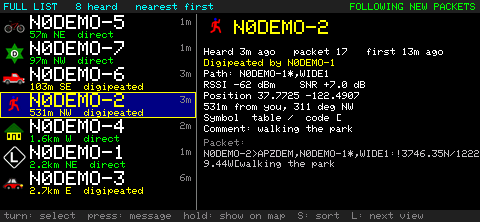
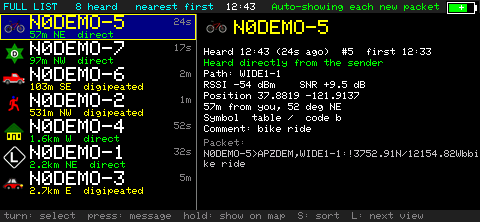
Real times, power saving, labelled menu, cleanup and new Mount Diablo screenshots
- Messages and heard stations carry real clock times (RTC-backed); last beacon time on the map; clock times in message threads and station detail.
- Power saving: idle between loop passes, 80 MHz when untouched, no drawing while the screen is off; battery current (screen on and off) in the main menu header.
- Main menu heading on a coloured band; full list header shows the time and says in words whether it follows new packets or is paused.
- Cleanup: README (regulatory section, PlatformIO, defaults, serial test commands), docs/messaging.md, tools no longer tied to one computer, SSIDs with a leading zero refused, unused parameter removed, messaging-ideas.pdf removed.
- New demo screenshots at the summit of Mount Diablo.

diff --git a/src/app/app.cpp b/src/app/app.cpp
@@ -36,7 +36,7 @@ static Keys keys;
 static lgfx::LGFX_Sprite fb(&tft);   // off-screen frame buffer (PSRAM) so redraws never show half-drawn
 static bool fbOk = false;
 
-// ---- LoRa APRS receive (433.775 MHz, SF12, BW125, CR4/5, private sync 0x12). Receive only: this build never transmits. ----
+// ---- LoRa APRS receive (433.775 MHz, SF12, BW125, CR4/5, private sync 0x12). It also transmits beacons and messages once a call sign is saved. ----
 static SX1262 *radio = nullptr;
 static volatile bool rxFlag = false;
 static void IRAM_ATTR onRx() { rxFlag = true; }
@@ -53,9 +53,11 @@ static BeaconScheduler beacon;
 static unsigned long txCount = 0;
 
 // ---- Stations heard (positions only for now) ----
-struct Station { char call[10]; double lat, lon; char table, sym; uint32_t heard, first; float rssi, snr; bool used;
+struct Station { char call[10]; double lat, lon; char table, sym; uint32_t heard, first, heardUtc, firstUtc; float rssi, snr; bool used;      // heard/first: millis(); heardUtc/firstUtc: real time (0 = clock not set)
+
                  uint16_t count; char raw[121], path[40], via[10], comment[44]; };   // raw = the last packet as text; via = the digipeater that repeated it ("" = heard directly)
 static Station stations[48];
+static uint32_t utcNow();                           // the clock, defined further down
 static char lastHeardCall[10] = "";                 // the station heard most recently, and when (the full list lights it up)
 static uint32_t lastHeardAt = 0, lastKnobAt = 0;      // lastKnobAt: when the knob last moved in the full list (it stops following new packets for a while)
 static int stationCount() { int n = 0; for (auto &s : stations) if (s.used) n++; return n; }
@@ -68,7 +70,9 @@ static void stationUpdate(const AprsPos &p, float rssi, float snr, const char *r
   }
   if (!slot) slot = oldest;
   bool same = slot->used && strcmp(slot->call, p.call) == 0;
-  if (!same) { slot->count = 0; slot->first = millis(); }
+  uint32_t u = utcNow();
+  if (!same) { slot->count = 0; slot->first = millis(); slot->firstUtc = u; }
+  slot->heardUtc = u;
   if (slot->count < 65535) slot->count++;
   strncpy(slot->call, p.call, 9); slot->call[9] = 0;
   slot->lat = p.lat; slot->lon = p.lon; slot->table = p.table; slot->sym = p.sym;
@@ -105,6 +109,7 @@ static void loadDemo(double lat, double lon) {
     strncpy(st.call, d.call, 9); st.table = d.table; st.sym = d.sym;
     st.lat = lat + d.dy / 111320.0; st.lon = lon + d.dx / (111320.0 * cos(lat * M_PI / 180.0));
     st.rssi = d.rssi; st.snr = (float)d.snr; st.count = d.count; st.heard = millis() - (uint32_t)d.ageS * 1000UL; st.first = st.heard - 600000UL;
+    { uint32_t u = utcNow(); st.heardUtc = u ? u - (uint32_t)d.ageS : 0; st.firstUtc = u ? st.heardUtc - 600 : 0; }
     strncpy(st.path, d.path, sizeof st.path - 1); strncpy(st.via, d.via, sizeof st.via - 1); strncpy(st.comment, d.comment, sizeof st.comment - 1);
     char pos[24]; aprsFormatPosition(pos, sizeof pos, st.lat, st.lon, d.table, d.sym);
     snprintf(st.raw, sizeof st.raw, "%s>APZDEM,%s:!%s%s", d.call, d.path, pos, d.comment);
@@ -141,6 +146,7 @@ static void rtcWrite(uint32_t utc) {
   Wire.write(clockToBcd(t.sec)); Wire.write(clockToBcd(t.min)); Wire.write(clockToBcd(t.hour)); Wire.write(clockToBcd(t.day));
   Wire.write((uint8_t)t.wday); Wire.write(clockToBcd(t.month)); Wire.write(clockToBcd(t.year % 100)); Wire.endTransmission();
 }
+static uint32_t lastBeaconUtc = 0;                         // when we last transmitted a beacon (0 = none since power-on, or clock not set)
 static uint32_t utcNow() { return clkEpoch ? clkEpoch + (millis() - clkAt) / 1000 : 0; }
 static void clockTick() {                                // once a second: take new GPS time, save it to the RTC now and then, read the battery
   if (gps.fix.epoch && gps.fix.epoch != clkGpsSeen && gps.fix.epoch > 1700000000UL) {
@@ -401,9 +407,9 @@ static void drawFullList(lgfx::LovyanGFX &D, int W, int H) {
   D.fillRect(0, 0, W, 13, C_BAR); D.setTextSize(1); D.setTextColor(TFT_CYAN); D.setCursor(4, 3);
   D.printf("FULL LIST   %d heard   %s first", nOrd, (sortByDistance && gps.fix.valid) ? "nearest" : "most recent");
   bool follow = lastKnobAt == 0 || millis() - lastKnobAt > FOLLOW_PAUSE_MS;
-  const char *ft = follow ? "FOLLOWING NEW PACKETS" : "HOLDING (knob in use)";
+  const char *ft = follow ? "Auto-showing each new packet" : "Paused: you turned the knob";   // the list jumps to each newly heard station until the knob is used, then waits 20 s
   D.setTextColor(follow ? TFT_GREEN : TFT_YELLOW); D.setCursor(W - 6 * (int)strlen(ft) - 4 - (S.batIcon ? 36 : 0), 3); D.print(ft);
-  drawClockBat(D, 222, 3, C_BAR, true); drawBatIcon(D, W);
+  drawClockBat(D, 226, 3, C_BAR, false); drawBatIcon(D, W);        // time only here: the date would run into the status text
   D.drawFastVLine(LW, top, H - top - 12, TFT_DARKGREY);
   int sel = selIndex(), first = constrain(sel - rows / 2, 0, std::max(0, nOrd - rows));
   if (nOrd == 0) { D.setTextColor(C_GRAY); D.setCursor(10, 60); D.print("No stations heard yet."); }
@@ -431,7 +437,8 @@ static void drawFullList(lgfx::LovyanGFX &D, int W, int H) {
     if (!strcmp(st.call, lastHeardCall) && millis() - lastHeardAt < FRESH_MS) { D.setTextSize(1); D.setTextColor(TFT_GREEN); D.setCursor(X + 30 + 12 * (int)strlen(st.call) + 8, y + 9); D.print("JUST HEARD"); D.setTextSize(2); }
     y += 30; D.setTextSize(1);
     char a1[8], a2[8]; geoFmtAge(a1, sizeof a1, (millis() - st.heard) / 1000); geoFmtAge(a2, sizeof a2, (millis() - st.first) / 1000);
-    D.setTextColor(TFT_WHITE); D.setCursor(X, y); D.printf("Heard %s ago   packet %u   first %s ago", a1, (unsigned)st.count, a2); y += 11;
+    D.setTextColor(TFT_WHITE); D.setCursor(X, y); if (st.heardUtc) { char h[24], f[24]; clockStamp(h, sizeof h, st.heardUtc, utcNow(), S.utcOffset, S.usDst); clockStamp(f, sizeof f, st.firstUtc, utcNow(), S.utcOffset, S.usDst); D.printf("Heard %s (%s ago)  #%u  first %s", h, a1, (unsigned)st.count, f); }
+    else D.printf("Heard %s ago   packet %u   first %s ago", a1, (unsigned)st.count, a2); y += 11;
     D.setCursor(X, y);
     if (st.via[0]) { D.setTextColor(TFT_YELLOW); D.printf("Digipeated by %s", st.via); } else { D.setTextColor(TFT_GREEN); D.print("Heard directly from the sender"); }
     y += 11; D.setTextColor(TFT_WHITE); D.setCursor(X, y); D.printf("Path: %s", st.path[0] ? st.path : "(none)"); y += 11;
@@ -452,15 +459,20 @@ static void drawFullList(lgfx::LovyanGFX &D, int W, int H) {
 
 // ---- Main menu (Backspace on the map): knob turn = move, press = choose, long press or Backspace = close ----
 enum MenuAct { MA_NONE, MA_MESSAGES, MA_SETUP, MA_BEACON, MA_AUTO, MA_POWEROFF_ASK, MA_POWEROFF_YES, MA_NO, MA_CLOSE };
-struct MainMenu { bool on = false; int sel = 0, n = 0; char label[7][32]; MenuAct act[7]; char title[34] = "Menu"; };
+struct MainMenu { bool on = false; int sel = 0, n = 0; char label[7][32]; MenuAct act[7]; char title[34] = "Menu"; char info1[56] = "", info2[56] = "", info3[56] = ""; };
 static MainMenu mainMenu;
 static void mmAdd(const char *t, MenuAct a) { if (mainMenu.n < 7) { strncpy(mainMenu.label[mainMenu.n], t, 31); mainMenu.label[mainMenu.n][31] = 0; mainMenu.act[mainMenu.n++] = a; } }
 static void drawMainMenu(lgfx::LovyanGFX &D) {
-  int h = 26 + mainMenu.n * 18, w = 260, x = (480 - w) / 2, y = (222 - h) / 2;
+  bool info = mainMenu.info1[0] != 0; int top = info ? (mainMenu.info3[0] ? 58 : 48) : 22;
+  int h = top + 4 + mainMenu.n * 18, w = info ? 340 : 260, x = (480 - w) / 2, y = (222 - h) / 2;
   D.fillRect(x - 2, y - 2, w + 4, h + 4, TFT_WHITE); D.fillRect(x, y, w, h, TFT_BLACK);
-  D.setTextSize(1); D.setTextColor(TFT_CYAN); D.setCursor(x + 8, y + 7); D.print(mainMenu.title);
+  D.fillRect(x, y, w, top - 3, 0x0014);                          // the heading sits on a dark blue band, with a line under it before the choices
+  D.fillRect(x, y + top - 3, w, 2, TFT_CYAN);
+  D.setTextSize(1); D.setTextColor(TFT_CYAN); D.setCursor(x + 8, y + 6); D.print(mainMenu.title);
+  if (info) { D.setTextColor(TFT_WHITE); D.setCursor(x + 8, y + 19); D.print(mainMenu.info1); D.setCursor(x + 8, y + 31); D.print(mainMenu.info2);
+                if (mainMenu.info3[0]) { D.setTextColor(0xC618); D.setCursor(x + 8, y + 43); D.print(mainMenu.info3); } }
   for (int i = 0; i < mainMenu.n; i++) {
-    int yy = y + 22 + i * 18; bool sel = i == mainMenu.sel;
+    int yy = y + top + i * 18; bool sel = i == mainMenu.sel;
     D.fillRect(x + 2, yy, w - 4, 16, sel ? TFT_YELLOW : TFT_BLACK);
     D.setTextColor(sel ? TFT_BLACK : TFT_WHITE); D.setCursor(x + 10, yy + 4); D.print(mainMenu.label[i]);
   }
@@ -574,6 +586,7 @@ static void render() {
   }
   D.setCursor(x0 + 2, H - 10);
   D.printf(" %.4f %.4f ", clat, clon);
+  if (lastBeaconUtc) { LocalTime bt = clockLocal(lastBeaconUtc, S.utcOffset, S.usDst); D.printf("TX %02d:%02d ", bt.hour, bt.min); }
   drawClockBat(D, W - 3, H - 10, TFT_BLACK, true, true);
   drawBatIcon(D, W);
   if (mainMenu.on) drawMainMenu(D);
@@ -669,15 +682,22 @@ static PagerSettings loadSettings() {
 // When the backlight was fully off, that first touch only wakes the screen (a key pressed in a pocket does nothing); when merely dimmed it also acts.
 static int screenState = 0;                               // 0 full, 1 dim, 2 off
 static uint32_t lastActivity = 0;
-static bool screenTouch() {                                // returns true when the screen was off: the caller then ignores that key press
+static long asleepSum = 0; static int asleepN = 0, asleepAvg = 0; static bool asleepHave = false;   // battery current sampled while the backlight was off
+static bool screenTouch() {
+  if (screenState == 2 && asleepN >= 2) { asleepAvg = (int)(asleepSum / asleepN); asleepHave = true; }                                // returns true when the screen was off: the caller then ignores that key press
   lastActivity = millis(); bool wasOff = screenState == 2;
   if (screenState) { screenState = 0; tft.setBrightness(S.brightness); dirty = true; }
   return wasOff;
 }
 static void screenTick() {
+  static bool slow = false;                                  // processor at 80 MHz when nothing was touched for 5 s, 240 MHz while in use (radio, GPS and beacons do not need more)
+  bool wantSlow = millis() - lastActivity > 5000;
+  if (wantSlow != slow) { slow = wantSlow; setCpuFrequencyMhz(slow ? 80 : 240); }
   if (!S.dimSec && !S.offSec) { if (screenState) { screenState = 0; tft.setBrightness(S.brightness); } return; }
   uint32_t idle = (millis() - lastActivity) / 1000;
   int want = (S.offSec && idle >= (uint32_t)S.offSec) ? 2 : ((S.dimSec && idle >= (uint32_t)S.dimSec) ? 1 : 0);
+  if (want == 2 && screenState != 2) { asleepSum = 0; asleepN = 0; }
+  if (want == 2) { static uint32_t sampledAt = 0; if (millis() - sampledAt > 2000) { sampledAt = millis(); uint8_t b[2]; if (i2cRead(ADDR_BQ27220, 0x0C, b, 2) == 0) { if (sampledAt - lastActivity > 6000) { asleepSum += (int16_t)(b[0] | (b[1] << 8)); asleepN++; } } } }
   if (want != screenState) { screenState = want; tft.setBrightness(want == 2 ? 0 : (want == 1 ? std::min(S.brightness, 20) : S.brightness)); }
 }
 static uint8_t keyFiltered() { uint8_t e = keys.poll(); if (e && screenTouch()) return 0; return e; }
@@ -830,7 +850,7 @@ static bool sendBeacon() {
   int r = txFrame(f, len);
   if (r == 1) { say("Channel busy: beacon skipped"); return false; }
   if (r != 0) { say("TX failed"); haptic.play(H_ERROR); return false; }
-  txCount++; beacon.sent(millis(), gps.fix.lat, gps.fix.lon);
+  txCount++; beacon.sent(millis(), gps.fix.lat, gps.fix.lon); lastBeaconUtc = utcNow();
   haptic.play(H_MESSAGE); say("Beacon sent");
   return true;
 }
@@ -864,6 +884,13 @@ static void powerOff() {
 }
 static void openMainMenu() {
   mainMenu.n = 0; mainMenu.sel = 0; mainMenu.on = true; strcpy(mainMenu.title, "Menu");
+  mainMenu.info1[0] = mainMenu.info2[0] = mainMenu.info3[0] = 0;                // battery current from the fuel gauge, with words: negative = the battery is giving power
+  { uint8_t b[2]; if (i2cRead(ADDR_BQ27220, 0x0C, b, 2) == 0) { int ma = (int16_t)(b[0] | (b[1] << 8));
+      if (ma < 0) snprintf(mainMenu.info1, sizeof mainMenu.info1, "Battery, screen on:   using %d mA", -ma); else snprintf(mainMenu.info1, sizeof mainMenu.info1, "Battery, screen on:   charging %d mA", ma);
+      if (!asleepHave) { strcpy(mainMenu.info2, "Battery, screen off:  no reading yet"); strcpy(mainMenu.info3, "Let the screen go off for a minute, then wake it."); }
+      else if (asleepAvg < 0) snprintf(mainMenu.info2, sizeof mainMenu.info2, "Battery, screen off:  using %d mA (average)", -asleepAvg);
+      else snprintf(mainMenu.info2, sizeof mainMenu.info2, "Battery, screen off:  USB was plugged in");
+    } else { strcpy(mainMenu.info1, "Battery current: no reading from the gauge"); } }
   mmAdd("Messages", MA_MESSAGES); mmAdd("Phone setup", MA_SETUP); mmAdd("Beacon now", MA_BEACON);
   mmAdd(autoBeacon ? "Auto-beacon is ON: turn off" : "Auto-beacon is OFF: turn on", MA_AUTO);
   mmAdd("Power off", MA_POWEROFF_ASK); mmAdd("Close menu", MA_CLOSE);
@@ -891,6 +918,7 @@ static void centerOnGps() {
 
 void loop() {
   if (root == "") { delay(1000); return; }
+  delay(screenState ? 10 : 2);                  // let the processor idle between passes (the radio, GPS and knob are interrupt or buffer driven)
 
   // GPS characters
   while (Serial1.available()) {
@@ -904,7 +932,6 @@ void loop() {
     }
   }
 
-  // 'S' from the Mac = send a screenshot
   // Test hooks from the Mac (used to take screenshots): "S" screenshot, "M" open Messages, "G<lat>,<lon>,<zoom>\n" put the map there,
   // "V<0-3>\n" choose the L view, "C<call>\n" select a heard station, "X\n" back to the map.
   {
@@ -928,6 +955,8 @@ void loop() {
         continue;
       }
       if (c == 'S') sendScreenshot();
+      else if (c == 'B') { uint8_t b[2]; auto w = [&](uint8_t r, const char *n, bool sgn) { if (i2cRead(ADDR_BQ27220, r, b, 2) == 0) { int v = b[0] | (b[1] << 8); Serial.printf("gauge %s = %d\n", n, sgn ? (int)(int16_t)v : v); } else Serial.printf("gauge %s = no answer\n", n); };
+                           w(0x08, "voltage mV", false); w(0x2C, "charge %", false); w(0x0C, "current 0x0C mA", true); w(0x14, "avg current 0x14 mA", true); w(0x0A, "flags", false); w(0x12, "full capacity mAh", false); w(0x10, "remaining mAh", false); w(0x16, "time to empty min", false); }
       else if (c == 'M' && !ui.active() && !setupMode) { ui.open(); Serial.println("ui: opened by serial"); }
       else if (c == 'G' || c == 'V' || c == 'C' || c == 'X' || c == 'D' || c == 'R') { cmd[0] = (char)c; cmdN = 1; }
     }
@@ -1059,7 +1088,7 @@ void loop() {
   // the messages screens replace the map while they are open
   if (ui.active()) {
     static uint32_t uiDrawn = 0;
-    if (ui.dirty || millis() - uiDrawn > 1000) {
+    if (screenState != 2 && (ui.dirty || millis() - uiDrawn > 1000)) {
       uiDrawn = millis(); ui.draw(fbOk ? (lgfx::LovyanGFX &)fb : (lgfx::LovyanGFX &)tft); if (fbOk) fb.pushSprite(0, 0);
     }
     return;
@@ -1071,6 +1100,6 @@ void loop() {
   static uint32_t lastFade = 0;
   if (stView == 3 && millis() - lastHeardAt < FRESH_MS + 1500 && millis() - lastFade > 1000) { lastFade = millis(); dirty = true; }     // let the green highlight fade out
   // redraw at most every 300 ms (stations and GPS arrive in bursts)
-  if (dirty && millis() - lastDraw > 300) { dirty = false; lastDraw = millis(); render(); }
+  if (dirty && screenState != 2 && millis() - lastDraw > 300) { dirty = false; lastDraw = millis(); render(); }
   else if (notice && millis() > noticeUntil && !dirty) { notice = nullptr; dirty = true; }
 }

diff --git a/src/msg_ui.h b/src/msg_ui.h
@@ -10,7 +10,7 @@ static const char *CANNED[] = {"OK", "QSL", "On my way", "Where are you?", "Runn
 static const int NCANNED = 6;
 static const uint16_t C_BG = TFT_BLACK, C_SEL = 0x0010, C_GRAY = 0x8410, C_BAR = 0x2104;
 
-static uint32_t epochNow() { return gps.fix.epoch; }
+static uint32_t epochNow() { return utcNow(); }          // the RTC-backed clock: right at power-on and with no GPS
 static const Station *stationFor(const char *call) {
   for (auto &st : stations) if (st.used && !strcasecmp(st.call, call)) return &st;
   return nullptr;
@@ -54,6 +54,10 @@ static void wrapInto(std::vector<std::string> &out, const std::string &t, size_t
     if (i + take < t.size()) { size_t sp = t.rfind(' ', i + take); if (sp != std::string::npos && sp > i) take = sp - i; }
     out.push_back(t.substr(i, take)); i += take; while (i < t.size() && t[i] == ' ') i++;
   }
+}
+static std::string stampText(uint32_t epoch) {            // "09:14  " (local time of the message), "" when its time is not known
+  if (!epoch) return "";
+  char b[24]; clockStamp(b, sizeof b, epoch, utcNow(), S.utcOffset, S.usDst); return std::string(b) + "  ";
 }
 static std::string ageText(uint32_t epoch) {
   uint32_t now = epochNow(); if (!epoch || !now || now < epoch) return "";
@@ -257,8 +261,8 @@ struct MsgUi {
       firstLine[i] = (int)ln.size();
       for (auto &s : w) ln.push_back({s, x.out ? (uint16_t)TFT_GREEN : (uint16_t)TFT_WHITE, x.out, (int)i, false, 18});
       std::string meta;
-      if (x.out) { meta = stateText(x, now); if (x.state == msg::S_QUEUED && heldBehind(th, i)) meta = "waiting for the earlier message"; }
-      else { std::string a = ageText(x.epoch), sig; if (x.rssi) { char b[40]; if (x.snr4) snprintf(b, sizeof b, "%d dBm  SNR %+.1f", x.rssi, x.snr4 / 4.0); else snprintf(b, sizeof b, "%d dBm", x.rssi); sig = b; } meta = a + (!a.empty() && !sig.empty() ? "  " : "") + sig; }
+      if (x.out) { meta = stampText(x.epoch) + stateText(x, now); if (x.state == msg::S_QUEUED && heldBehind(th, i)) meta = "waiting for the earlier message"; }
+      else { std::string a = stampText(x.epoch) + ageText(x.epoch), sig; if (x.rssi) { char b[40]; if (x.snr4) snprintf(b, sizeof b, "%d dBm  SNR %+.1f", x.rssi, x.snr4 / 4.0); else snprintf(b, sizeof b, "%d dBm", x.rssi); sig = b; } meta = a + (!a.empty() && !sig.empty() ? "  " : "") + sig; }
       ln.push_back({meta, x.out ? stateColor(x.state) : (uint16_t)0xC618, x.out, (int)i, true, 13});
       lastLine[i] = (int)ln.size() - 1;
     }

diff --git a/src/settings_core.h b/src/settings_core.h
@@ -41,7 +41,7 @@ inline std::string trim(const std::string &s) {
 inline std::string upper(std::string s) { for (auto &c : s) c = toupper((unsigned char)c); return s; }
 }  // namespace settings_detail
 
-// "K6ATV-6": 3-6 letters/digits with at least one of each, then an optional -0..15
+// "W1AW-7": 3-6 letters/digits with at least one of each, then an optional -0..15
 inline bool settingsValidCall(const std::string &c) {
   size_t dash = c.find('-'); std::string base = c.substr(0, dash);
   if (base.size() < 3 || base.size() > 6) return false;
@@ -49,7 +49,8 @@ inline bool settingsValidCall(const std::string &c) {
   for (char ch : base) { if (isalpha((unsigned char)ch) && isupper((unsigned char)ch)) l = true; else if (isdigit((unsigned char)ch)) d = true; else return false; }
   if (!l || !d) return false;
   if (dash == std::string::npos) return true;
-  int ssid; return settings_detail::toInt(c.substr(dash + 1), 0, 15, ssid) && c.size() - dash - 1 <= 2;
+  std::string sd = c.substr(dash + 1);
+  int ssid; return settings_detail::toInt(sd, 0, 15, ssid) && sd.size() <= 2 && !(sd.size() == 2 && sd[0] == '0');     // -0 to -15, no leading zero
 }
 // "WIDE1-1" or "WIDE1-1,WIDE2-1" or empty: up to 3 hops of A-Z, 0-9 and a dash
 inline bool settingsValidPath(const std::string &p) {
@@ -82,7 +83,7 @@ inline bool settingsParse(const SettingsGet &get, PagerSettings &out, std::strin
   PagerSettings n; std::string v;
   auto need = [&](const char *name) { if (!get(name, v)) { err = std::string("Missing field: ") + name; return false; } return true; };
   if (!need("call")) return false;
-  { std::string c = upper(trim(v)); if (!settingsValidCall(c)) { err = "Call sign: use letters and digits like K6ATV-6 (SSID 0-15)"; return false; } strcpy(n.call, c.c_str()); }
+  { std::string c = upper(trim(v)); if (!settingsValidCall(c)) { err = "Call sign: use letters and digits like W1AW-7 (SSID 0-15)"; return false; } strcpy(n.call, c.c_str()); }
   if (!need("path")) return false;
   { std::string p = upper(trim(v)); if (!settingsValidPath(p)) { err = "Path: up to 3 hops like WIDE1-1 or WIDE1-1,WIDE2-1"; return false; } strcpy(n.path, p.c_str()); }
   if (!need("table")) return false;

diff --git a/test/host/test_settings.cpp b/test/host/test_settings.cpp
@@ -23,7 +23,7 @@ int main() {
   bad("comment", "0123456789012345678901234567890123456789012345", "long comment refused");
   bad("txdbm", "23", "23 dBm refused"); bad("txdbm", "1", "1 dBm refused"); bad("txdbm", "abc", "non-number refused"); bad("txdbm", "20x", "trailing junk refused"); bad("txdbm", "", "empty number refused");
   bad("moving", "29", "moving too fast refused"); bad("moving", "3601", "moving too slow refused"); bad("stationary", "0", "0 min refused"); bad("stationary", "121", "121 min refused");
-  bad("movem", "19", "19 m refused"); bad("auto", "2", "auto 2 refused"); bad("bright", "9", "dark refused"); bad("bright", "256", "256 refused"); bad("tz", "15", "tz 15 refused"); bad("tz", "-13", "tz -13 refused"); bad("dst", "2", "dst 2 refused"); bad("baticon", "2", "baticon 2 refused"); bad("dim", "-1", "dim -1 refused"); bad("off", "3601", "off 3601 refused");
+  bad("movem", "19", "19 m refused"); bad("auto", "2", "auto 2 refused"); bad("bright", "9", "dark refused"); bad("bright", "256", "256 refused"); bad("tz", "15", "tz 15 refused"); { M m = good(); m["call"] = "W1AW-01"; std::string e; PagerSettings t; expect(!parse(m, t, e), "SSID with a leading zero refused"); } bad("tz", "-13", "tz -13 refused"); bad("dst", "2", "dst 2 refused"); bad("baticon", "2", "baticon 2 refused"); bad("dim", "-1", "dim -1 refused"); bad("off", "3601", "off 3601 refused");
   { M m = good(); m.erase("bright"); std::string e; PagerSettings t; expect(!parse(m, t, e) && e.find("bright") != std::string::npos, "missing field named in the error"); }
   { M m = good(); m["table"] = "L"; m["sym"] = "&"; PagerSettings t; std::string e; expect(parse(m, t, e) && t.table == 'L' && t.sym == '&', "overlay symbol L& accepted"); }
   { M m = good(); m["table"] = "\\"; m["sym"] = "&"; PagerSettings t; std::string e; expect(parse(m, t, e) && t.table == '\\', "alternate table accepted"); }

diff --git a/tools/screenshot.py b/tools/screenshot.py
@@ -2,8 +2,8 @@
 """Take a screenshot of the T-LoRa Pager running the application firmware, over USB.
 
 Usage: tools/screenshot.py [out.png] [--port /dev/cu.usbmodemXXXX] [--send 'V1\\nG37.77,-122.49,12\\n'] [--wait 1.5]
-Needs pyserial and Pillow. On this Mac: PYTHONPATH=$HOME/.platformio/penv/lib/python3.11/site-packages python3 tools/screenshot.py out.png
-(system python3 has Pillow, the PlatformIO venv has pyserial).
+Needs pyserial and Pillow (pip install pyserial pillow). The port is found automatically (an Espressif USB device; /dev/cu.usbmodem*, /dev/ttyACM*,
+or a COM port); give --port if you have more than one.
 The firmware answers an 'S' byte with its off-screen frame buffer. The port is opened WITHOUT touching DTR/RTS:
 setting them makes the ESP32-S3's USB-Serial/JTAG reset the chip.
 """
@@ -18,9 +18,14 @@ send = opt("--send"); wait = float(opt("--wait", "1.5"))
 skip = {opt("--send"), opt("--wait"), opt("--port")}
 args = [a for a in sys.argv[1:] if not a.startswith("--") and a not in skip]
 out = args[0] if args else "pager-screenshot.png"
-port = sys.argv[sys.argv.index("--port") + 1] if "--port" in sys.argv else (glob.glob("/dev/cu.usbmodem*") or [None])[0]
+def find_port():
+    from serial.tools import list_ports
+    for p in list_ports.comports():
+        if p.vid == 0x303A: return p.device                      # Espressif's USB vendor id (the pager's built-in USB)
+    return (glob.glob("/dev/cu.usbmodem*") + glob.glob("/dev/ttyACM*") or [None])[0]
+port = sys.argv[sys.argv.index("--port") + 1] if "--port" in sys.argv else find_port()
 if not port:
-    sys.exit("no /dev/cu.usbmodem* port found")
+    sys.exit("no pager port found: plug it in with USB, or give --port (for example --port COM5 or --port /dev/ttyACM0)")
 
 s = serial.Serial(port, 115200, timeout=0.5)
 s.reset_input_buffer()

diff --git a/test/host/test_aprs.cpp b/test/host/test_aprs.cpp
@@ -34,7 +34,7 @@ int main() {
   expect(parse("N1ZZN-9>T2SP0W:`c_Vm6hk/`\"49}Jeff Mobile_%", p), "mic-e Yaesu parses");
   expect(near(p.lat, 42 + 30.07 / 60, 1e-4) && near(p.lon, -(71 + 7.58 / 60), 1e-4), "mic-e Yaesu position");
   expect(std::string(p.comment).find("Jeff Mobile") != std::string::npos && std::string(p.comment).find('_') == std::string::npos && std::string(p.comment).find('}') == std::string::npos, "mic-e comment cleaned");
-  expect(parse("N0CALL>ABCDEF:'abc123R/text", p) == false || true, "garbage destination does not crash");
+  parse("N0CALL>ABCDEF:'abc123R/text", p);                       // a Mic-E with an invalid destination: must not crash (the result is not checked)
   expect(!parse("N0CALL>ABC:`c_Vm6hk/", p), "mic-e with a short destination is refused");
   expect(!parse("N0CALL>T2SP0W:`c_V", p), "mic-e with a short info field is refused");
   // real packets from the live APRS-IS feed (2026-11-23), positions checked against the aprslib decoder
@@ -58,7 +58,7 @@ int main() {
   expect(!parse("K6ATV-4>APLRT1:>status text", p), "status is not a position");
   expect(!parse("K6ATV-4>APLRT1:!9999.99N/18099.99W>", p), "out of range lat");
   expect(!parse("garbage", p), "garbage");
-  expect(!parse("K6ATV-4>APLRT1:!3720.50N/12154.30W>", p, true) == false, "sanity");
+  expect(parse("K6ATV-4>APLRT1:!3720.50N/12154.30W>", p, true), "sanity");
   { std::string f = std::string("\x3c\xff\x03") + "K6ATV-4>APLRT1:!3720.50N/12154.30W>"; expect(!aprsParse((const unsigned char *)f.data(), f.size(), p), "LACF frame ignored"); }
   expect(parse("K6ATV-4>APLRT1:!3720.50N/12154.30W>", p, false), "no header also accepted");
 

diff --git a/test/host/test_clock.cpp b/test/host/test_clock.cpp
@@ -19,6 +19,12 @@ int main() {
   expect(clockUsDst(e - 1, -8) && !clockUsDst(e, -8), "DST end instant");
   LocalTime d = clockBreak(0); expect(d.year == 1970 && d.wday == 4, "epoch is a Thursday");
   LocalTime neg = clockLocal(3600, -8, false); expect(neg.year == 1969 && neg.month == 12 && neg.day == 31 && neg.hour == 17, "before 1970");
+  { int64_t now = clockDays(2026, 11, 23) * 86400 + 22 * 3600 + 5 * 60;                   // 14:05 Pacific on 23 Nov
+    char s[24]; clockStamp(s, sizeof s, now - 3600, now, -8, true); expect(!strcmp(s, "13:05"), "stamp today");
+    clockStamp(s, sizeof s, now - 86400, now, -8, true); expect(!strcmp(s, "Nov 22 14:05"), "stamp yesterday has the date");
+    clockStamp(s, sizeof s, now, 0, -8, true); expect(!strcmp(s, "Nov 23 14:05"), "stamp with no clock has the date");
+    int64_t late = clockDays(2026, 11, 24) * 86400 + 5 * 3600;                           // 21:00 on the 23rd Pacific, 05:00 UTC on the 24th
+    clockStamp(s, sizeof s, late, late + 60, -8, true); expect(!strcmp(s, "21:00"), "stamp uses the local date, not the UTC date"); }
   expect(clockToBcd(59) == 0x59 && clockFromBcd(0x23) == 23, "BCD");
   printf(fails ? "%d failed\n" : "clock: all passed\n", fails); return fails != 0;
 }

diff --git a/src/clock.h b/src/clock.h
@@ -43,5 +43,12 @@ inline void clockFmt(char *out, size_t n, const LocalTime &t) {
   static const char *M[] = {"Jan", "Feb", "Mar", "Apr", "May", "Jun", "Jul", "Aug", "Sep", "Oct", "Nov", "Dec"};
   snprintf(out, n, "%s %d %s %02d:%02d", D[t.wday % 7], t.day, M[(t.month - 1 + 12) % 12], t.hour, t.min);
 }
+// Time of an event for the screen: "09:14" when it was today (local date), otherwise "Nov 22 09:14". now = 0 (clock not set): always with the date.
+inline void clockStamp(char *out, size_t n, int64_t epoch, int64_t now, int stdOffsetHours, bool usDst) {
+  static const char *M[] = {"Jan", "Feb", "Mar", "Apr", "May", "Jun", "Jul", "Aug", "Sep", "Oct", "Nov", "Dec"};
+  LocalTime e = clockLocal(epoch, stdOffsetHours, usDst);
+  if (now > 0) { LocalTime t = clockLocal(now, stdOffsetHours, usDst); if (t.year == e.year && t.month == e.month && t.day == e.day) { snprintf(out, n, "%02d:%02d", e.hour, e.min); return; } }
+  snprintf(out, n, "%s %d %02d:%02d", M[(e.month - 1 + 12) % 12], e.day, e.hour, e.min);
+}
 inline uint8_t clockToBcd(int v) { return (uint8_t)(((v / 10) << 4) | (v % 10)); }
 inline int clockFromBcd(uint8_t b) { return (b >> 4) * 10 + (b & 15); }

diff --git a/src/webui.h b/src/webui.h
@@ -27,7 +27,7 @@ button{font:inherit;padding:12px 18px;border-radius:10px;border:0;background:var
 <form id="f" onsubmit="return save(event)">
 <div class="card"><h2>Station</h2>
 <label for="call">Call sign</label><input type="text" id="call" maxlength="9" autocapitalize="characters" autocomplete="off" spellcheck="false">
-<small>With an SSID, like K6ATV-6. The pager will not transmit while this is N0CALL.</small>
+<small>With an SSID, like W1AW-7. The pager will not transmit while this is N0CALL.</small>
 <label for="comment">Comment</label><input type="text" id="comment" maxlength="43" autocomplete="off"><small>Up to 43 characters, shown next to your position.</small>
 <label for="path">Digipeater path</label><input type="text" id="path" maxlength="20" autocapitalize="characters" autocomplete="off" spellcheck="false"><small>Usually WIDE1-1.</small></div>
 

diff --git a/tools/make_symbols.py b/tools/make_symbols.py
@@ -7,7 +7,8 @@ Source sheets: the 48 px renderings (aprs-symbols-24-N@2x.png) of the aprs.fi sy
 Sheet 0 = primary table, sheet 1 = alternate table, sheet 2 = overlay characters (0-9, A-Z, drawn over an alternate-table symbol);
 16 columns x 6 rows, character c is cell ord(c) - 33 (94 cells used per sheet).
 Output record per symbol: 576 x RGB565 (little endian) then 576 x alpha (0..255) = 1728 bytes.  Layout: sheet 0 cells 0..93, then sheet 1, then sheet 2.
-Usage: tools/make_symbols.py <dir holding symbols-0.png and symbols-1.png> [out.bin]
+Usage: tools/make_symbols.py <dir holding symbols-0.png, symbols-1.png and symbols-2.png> [out.bin]
+Get the sheets from https://github.com/hessu/aprs-symbols (the png/aprs-symbols-24-N@2x.png files, N = 0, 1, 2) and copy them to symbols-N.png.
 """
 import struct, sys
 from PIL import Image

diff --git a/src/nmea.h b/src/nmea.h
@@ -34,7 +34,7 @@ public:
   }
 private:
   char _l[128]; size_t _n = 0;
-  static double coord(const char *f, const char *hemi, bool lon) {
+  static double coord(const char *f, const char *hemi) {
     double v = atof(f); int dd = (int)(v / 100.0); double r = dd + (v - dd * 100.0) / 60.0;
     return (hemi[0] == 'S' || hemi[0] == 'W') ? -r : r;
   }
@@ -56,7 +56,7 @@ private:
     if (k < 8) return false;
     int q = atoi(f[6]); fix.sats = atoi(f[7]);
     if (q == 0 || !f[2][0] || !f[4][0]) { fix.valid = false; return true; }
-    fix.lat = coord(f[2], f[3], false); fix.lon = coord(f[4], f[5], true); fix.valid = true;
+    fix.lat = coord(f[2], f[3]); fix.lon = coord(f[4], f[5]); fix.valid = true;
     return true;
   }
 };

diff --git a/tools/count_vec.py b/tools/count_vec.py
@@ -1,7 +1,8 @@
 import gzip, math, sys, collections
 from pmtiles.reader import Reader, MmapSource
 import mapbox_vector_tile as mvt
-T="/Volumes/Terrain/california_r2_full/california_r2"
+if len(sys.argv) != 2: sys.exit("usage: count_vec.py <path prefix of the two PMTiles files, e.g. /data/california_r2>  (reads <prefix>_vector.pmtiles and <prefix>_vector_osm.pmtiles)")
+T=sys.argv[1]
 ARCH={"vector":T+"_vector.pmtiles","osm":T+"_vector_osm.pmtiles"}
 rd={}
 for k,p in ARCH.items():
